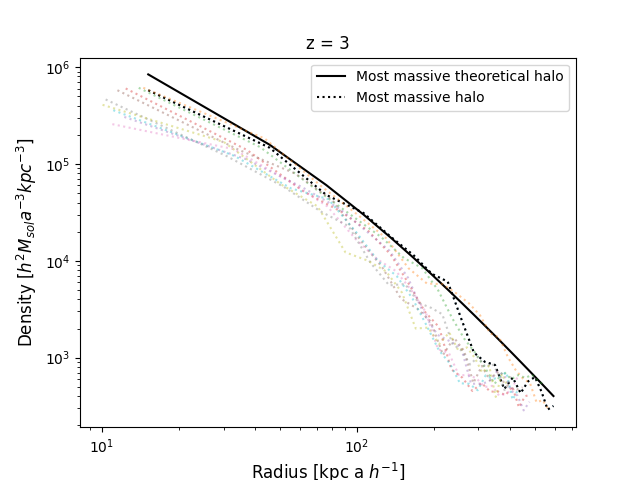
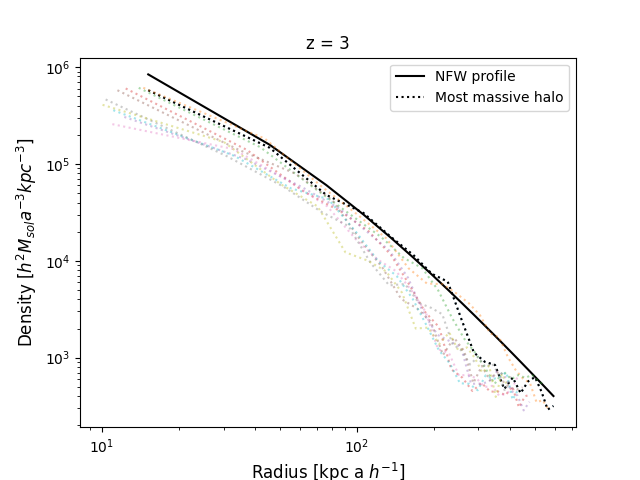
some changes

Changed region(s): [[0.5312, 0.125, 0.875, 0.2188], [0.5, 0.1562, 0.5312, 0.1875]]

diff --git a/Plotting.py b/Plotting.py
@@ -137,7 +137,7 @@ for i in range(len(ahf_folders)):
         #plt.errorbar(r, rho, yerr=_error, fmt='o', markersize=1, color=color)
         
         if j == 0:
-            plt.semilogy(r, rho_theory, linestyle='-', color='black', label = f'Most massive theoretical halo')
+            plt.semilogy(r, rho_theory, linestyle='-', color='black', label = f'NFW profile')
             plt.semilogy(r, rho, linestyle=':', color='black', label = f'Most massive halo')
 
     plt.legend()
